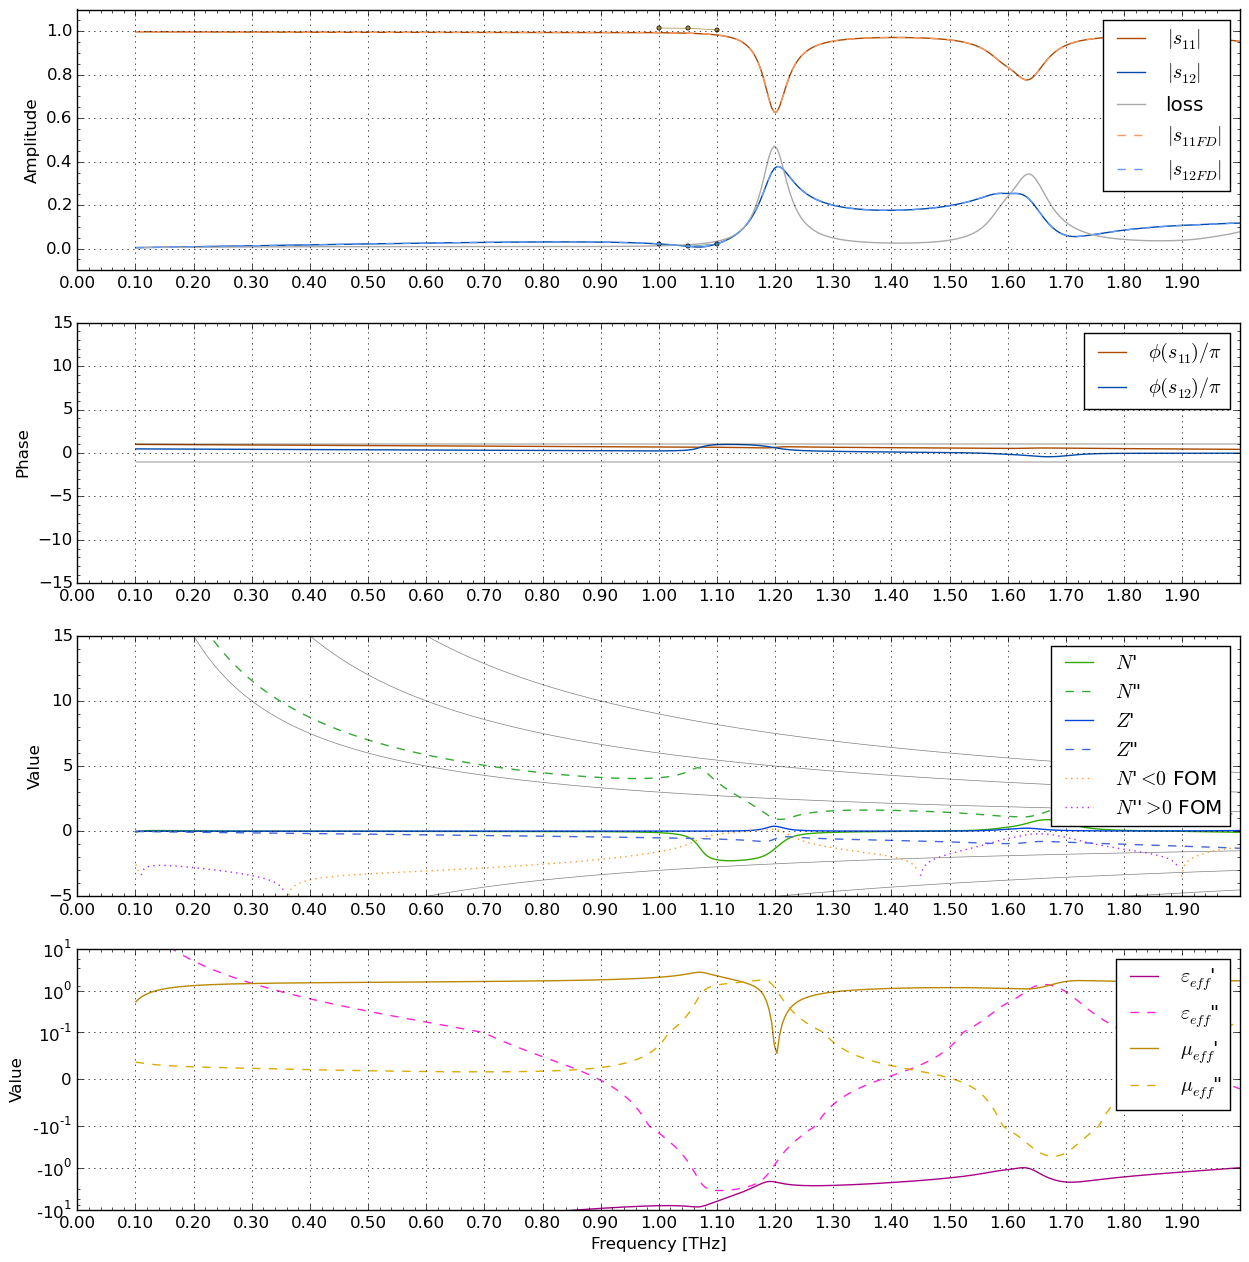
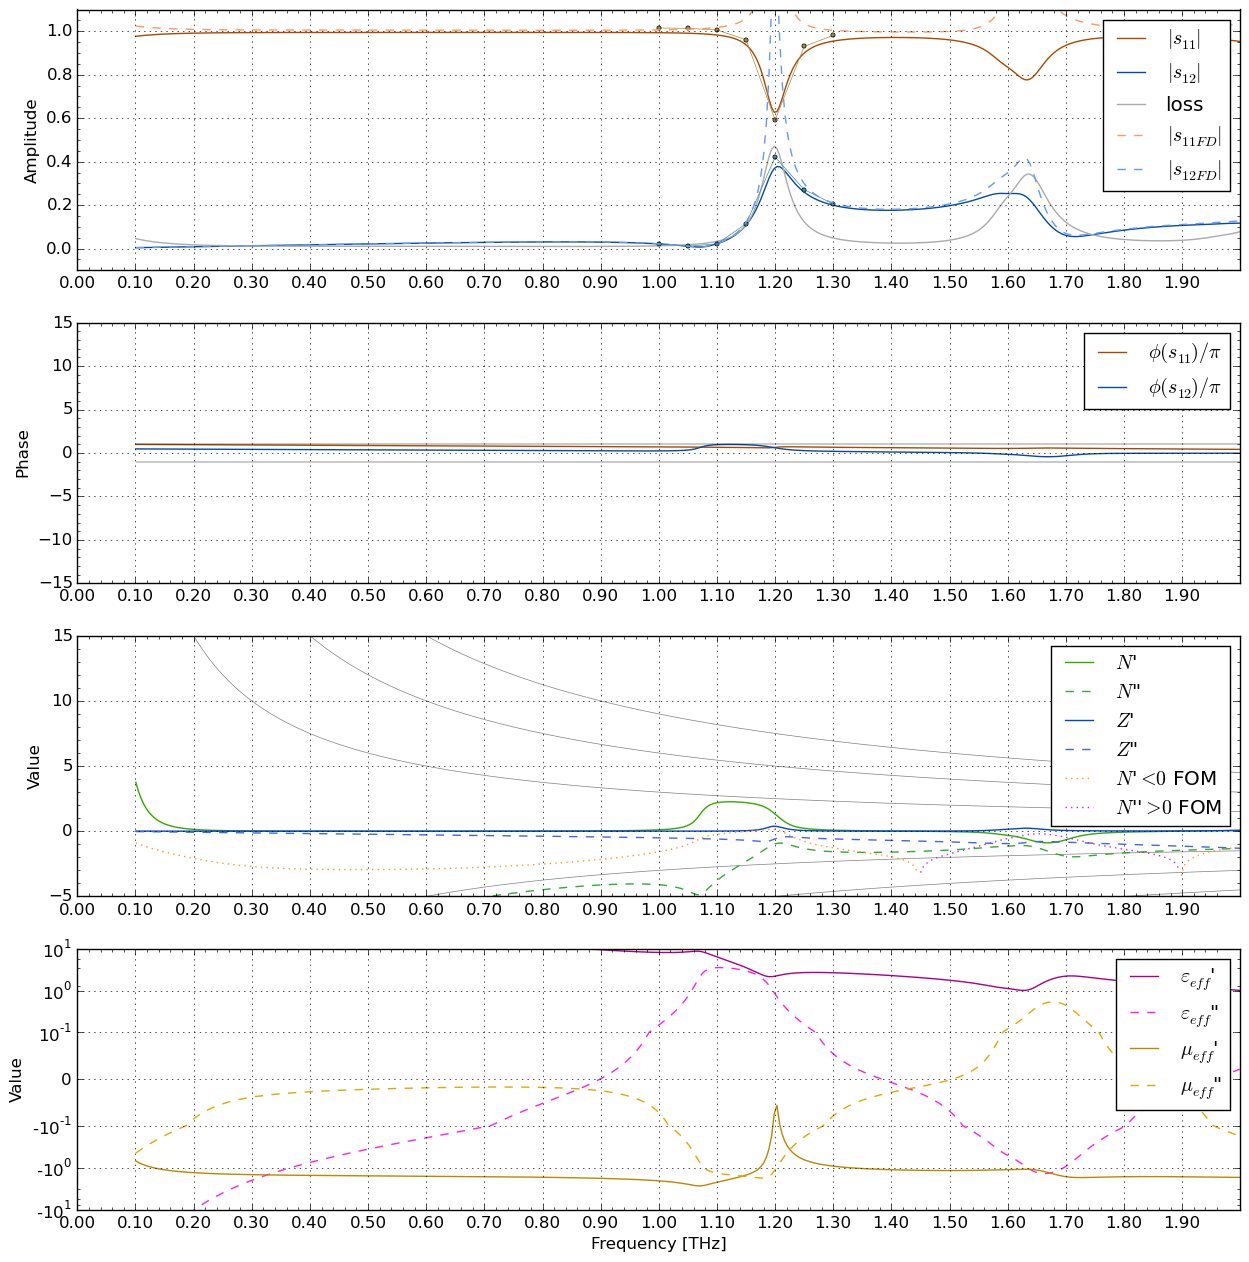
testing convergence of plasmonics in freq-domain

diff --git a/metamaterial_models.py b/metamaterial_models.py
@@ -19,7 +19,7 @@ class SphereArray(meep_utils.AbstractMeepModel): #{{{
         self.simulation_name = "SphereArray"    
         self.src_freq, self.src_width = 1000e9, 4000e9    # [Hz] (note: gaussian source ends at t=10/src_width)
         self.interesting_frequencies = (100e9, 2000e9)    # Which frequencies will be saved to disk
-        self.pml_thickness = 20e-6
+        self.pml_thickness = .1*c/self.src_freq
 
         self.size_x = cellsize 
         self.size_y = cellsize
@@ -39,11 +39,16 @@ class SphereArray(meep_utils.AbstractMeepModel): #{{{
         else:           ## ...or define a custom dielectric if permittivity not specified
             tio2 = meep_materials.material_dielectric(where=self.where_sphere, eps=self.epsilon) 
 
-        self.fix_material_stability(tio2, f_c=2e13, verbose=0) ## rm all osc above the first one, to optimize for speed 
+        self.fix_material_stability(tio2, verbose=0) ##f_c=2e13,  rm all osc above the first one, to optimize for speed 
         self.materials.append(tio2)
 
         if wirethick > 0:
             au = meep_materials.material_Au(where=self.where_wire)
+            if 'diluted' in comment:  ## debug
+                print au.pol[0]['sigma']
+                meep.all_wait()
+                au.pol[0]['sigma'] /= 100
+                print au.pol[0]['sigma']
             self.fix_material_stability(au, verbose=0)
             self.materials.append(au)
 
